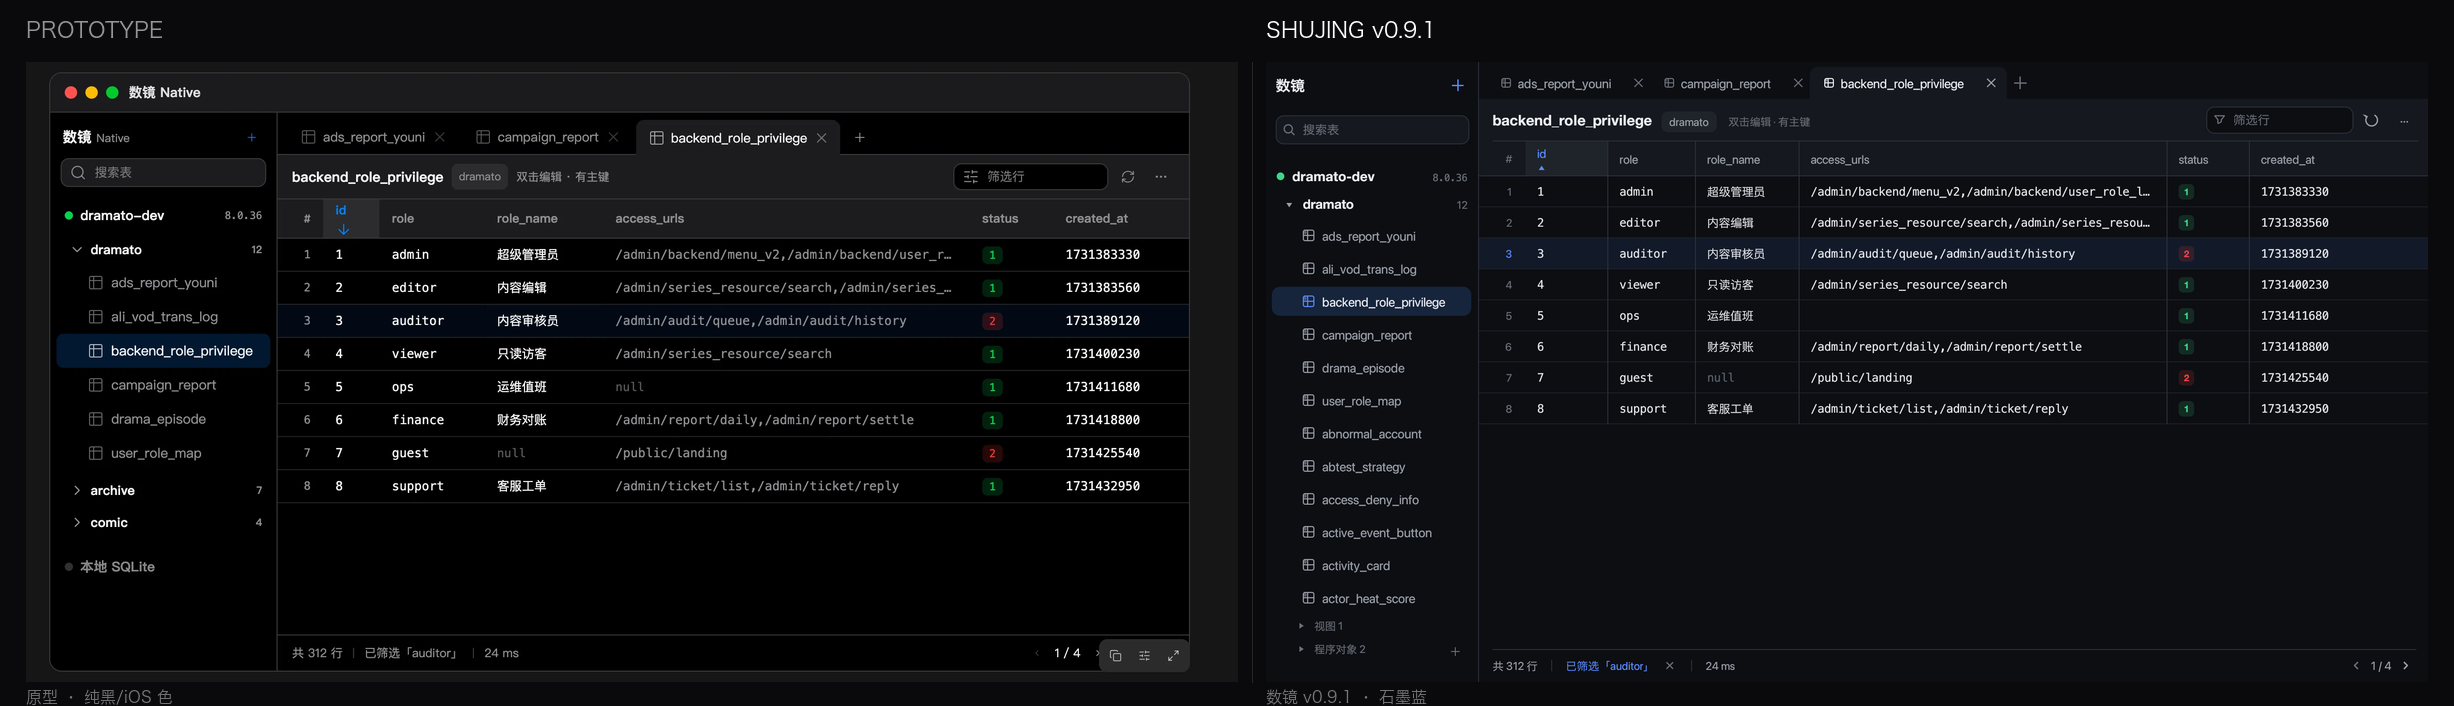
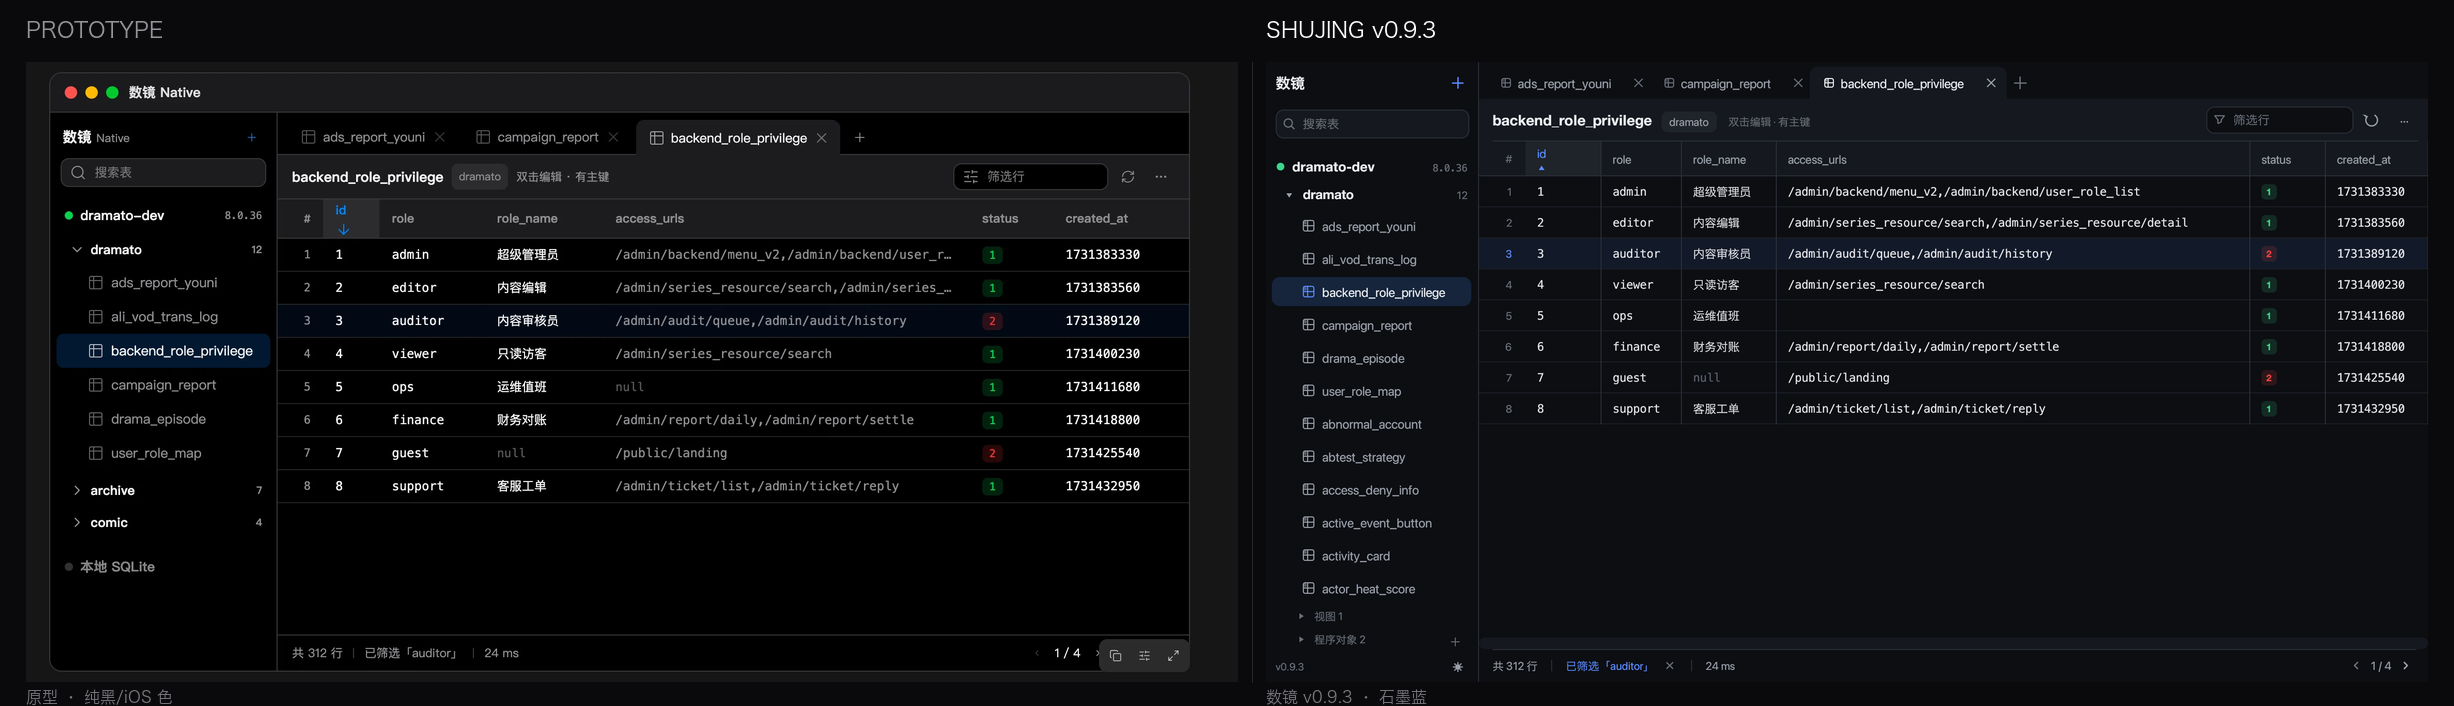
fix(ui): 修复应用图标“e”、侧栏横线/间距、标签栏跟滚与表格横向滚动条
- ViewportBuilder 设置数镜图标,替代 eframe 默认的 egui “e” 图标
- 侧栏移除头部/底栏 hairline,收紧头部、搜索、底栏间距
- 标签栏滚轮横滚只在指针位于标签栏时生效,避免滚表格时标签跟滚
- 数据表改用内容宽度列 + 末尾占位列,窄表可溢出
- 滚动条样式在外层 ui 设置(闭包内设置无效),横向条常驻、12pt、高可见度
- 列内容宽度上限 380→720、64→160 字符,长 URL 更完整
- 新增窄表横向滚动渲染测试、标签栏滚动隔离测试;25 项测试通过

diff --git a/crates/app/src/table_view.rs b/crates/app/src/table_view.rs
@@ -235,10 +235,13 @@ pub(crate) fn draw_tabs(app: &mut ShujingApp, ctx: &egui::Context) {
                 .auto_shrink([false, true])
                 .scroll_bar_visibility(egui::scroll_area::ScrollBarVisibility::AlwaysHidden)
                 .show(ui, |ui| {
-                    // 鼠标滚轮在标签栏上 = 横向滚动
-                    let wheel_y = ui.input(|i| i.smooth_scroll_delta.y);
-                    if wheel_y.abs() > 0.1 {
-                        ui.scroll_with_delta(egui::vec2(wheel_y, 0.0));
+                    // 鼠标滚轮在标签栏上 = 横向滚动;必须判断指针是否真的在标签栏内,
+                    // 否则滚表格时标签栏也会跟着横滚。
+                    if ui.rect_contains_pointer(ui.max_rect()) {
+                        let wheel_y = ui.input(|i| i.smooth_scroll_delta.y);
+                        if wheel_y.abs() > 0.1 {
+                            ui.scroll_with_delta(egui::vec2(wheel_y, 0.0));
+                        }
                     }
                     ui.horizontal(|ui| {
                         ui.spacing_mut().item_spacing.x = 2.0;
@@ -309,22 +312,28 @@ pub(crate) fn draw_tabs(app: &mut ShujingApp, ctx: &egui::Context) {
                         ui.add_space(4.0);
                         // 全部标签(溢出时可下拉直达)
                         if app.tabs.len() > 4 {
-                            ui.menu_button(RichText::new("▾ 全部标签").size(11.0).color(p.text2), |ui| {
-                                ui.set_min_width(220.0);
-                                for (i, t) in app.tabs.iter().enumerate() {
-                                    let sel = i == app.active_tab;
-                                    ui.horizontal(|ui| {
-                                        let lbl = ui.selectable_label(
-                                            sel,
-                                            RichText::new(&t.title).size(12.0).color(if sel { p.text } else { p.text2 }),
-                                        );
-                                        if lbl.clicked() {
-                                            activate = Some(i);
-                                            ui.close_menu();
-                                        }
-                                    });
-                                }
-                            });
+                            ui.menu_button(
+                                RichText::new("▾ 全部标签").size(11.0).color(p.text2),
+                                |ui| {
+                                    ui.set_min_width(220.0);
+                                    for (i, t) in app.tabs.iter().enumerate() {
+                                        let sel = i == app.active_tab;
+                                        ui.horizontal(|ui| {
+                                            let lbl =
+                                                ui.selectable_label(
+                                                    sel,
+                                                    RichText::new(&t.title)
+                                                        .size(12.0)
+                                                        .color(if sel { p.text } else { p.text2 }),
+                                                );
+                                            if lbl.clicked() {
+                                                activate = Some(i);
+                                                ui.close_menu();
+                                            }
+                                        });
+                                    }
+                                },
+                            );
                             ui.add_space(2.0);
                         }
                         let (rect, resp) = ui.allocate_exact_size(
@@ -1244,16 +1253,22 @@ pub(crate) fn draw_table_view(
                 let col_widths = fitted_widths(&vis_rows, &vis_cols, ui.available_width());
                 let desired_w =
                     if tab.show_rowno { 48.0 } else { 0.0 } + col_widths.iter().sum::<f32>();
+                // 注意:必须在外层 ui 上设置,ScrollArea 自己的滚动条不会读取闭包内 ui 的 spacing。
+                // 主题默认是 floating + dormant 全透明,不显式改就会“看不见横向滚动条”。
+                ui.spacing_mut().scroll.floating = false;
+                // 常驻、足够显眼:用户反馈“表格没有横向滚动条”,不能再用静止透明样式
+                ui.spacing_mut().scroll.dormant_handle_opacity = 0.9;
+                ui.spacing_mut().scroll.dormant_background_opacity = 0.15;
+                ui.spacing_mut().scroll.interact_handle_opacity = 1.0;
+                ui.spacing_mut().scroll.active_handle_opacity = 1.0;
+                ui.spacing_mut().scroll.bar_width = 12.0;
+                ui.spacing_mut().scroll.bar_inner_margin = 2.0;
                 let hout = egui::ScrollArea::horizontal()
                     .id_salt(format!("data-hscroll-{tab_id_s}"))
                     .auto_shrink([false, false])
-                    .scroll_bar_visibility(egui::scroll_area::ScrollBarVisibility::VisibleWhenNeeded)
+                    // 常驻横向滚动条:即便没有溢出也显示,用户能明确知道表格可横向滚动
+                    .scroll_bar_visibility(egui::scroll_area::ScrollBarVisibility::AlwaysVisible)
                     .show(ui, |ui| {
-                        // 数据网格用实体常驻滚动条:主题默认是悬浮+静止全透明,等于不可发现
-                        ui.spacing_mut().scroll.floating = false;
-                        ui.spacing_mut().scroll.dormant_handle_opacity = 0.4;
-                        ui.spacing_mut().scroll.bar_width = 10.0;
-                        ui.spacing_mut().scroll.bar_inner_margin = 3.0;
                         ui.set_min_width(ui.available_width().max(desired_w));
                         // 拖拽平移:按住网格区域左右拖 = 横向滚动(非编辑态)
                         if editing.is_none() {
@@ -1301,7 +1316,10 @@ pub(crate) fn draw_table_view(
                             actions.push(a);
                         }
                     });
-                    LAST_HSCROLL_X.store(hout.state.offset.x as i32, std::sync::atomic::Ordering::Relaxed);
+                LAST_HSCROLL_X.store(
+                    hout.state.offset.x as i32,
+                    std::sync::atomic::Ordering::Relaxed,
+                );
             }
             // 列头右键动作落地
             if let Some((c2, asc)) = col_set_sort {
@@ -1522,7 +1540,7 @@ pub(crate) fn suggested_widths(rows: &[Vec<Option<String>>], columns: &[String])
                 .filter_map(|r| r.get(i).and_then(|v| v.as_deref()))
                 .map(text_width)
                 .fold(0.0_f32, f32::max);
-            (head.max(data) + 26.0).clamp(72.0, 380.0)
+            (head.max(data) + 26.0).clamp(72.0, 720.0)
         })
         .collect()
 }
@@ -1541,7 +1559,7 @@ pub(crate) fn fitted_widths(
     let total = 48.0 + sum;
     if available > total + 1.0 {
         let scale = (available - 48.0) / sum;
-        base.iter().map(|w| (w * scale).min(620.0)).collect()
+        base.iter().map(|w| (w * scale).min(720.0)).collect()
     } else {
         base
     }
@@ -1549,7 +1567,7 @@ pub(crate) fn fitted_widths(
 
 fn text_width(s: &str) -> f32 {
     s.chars()
-        .take(64)
+        .take(160)
         .map(|c| {
             if c.is_ascii() && !c.is_ascii_control() {
                 7.2
@@ -1608,17 +1626,14 @@ fn draw_data_table(
     } else {
         builder
     };
+    // 所有真实列都按内容宽度布局,末尾再补一个 remainder 占位列:
+    // 内容窄时占位列把右侧铺满;内容宽时占位列收缩为 0,表格整体溢出并出现横向滚动条。
     for (i, _c) in columns.iter().enumerate() {
-        tb = tb.column(if i + 1 == columns.len() {
-            Column::remainder().clip(true)
-        } else {
-            Column::auto_with_initial_suggestion(col_widths[i])
-                .at_least(64.0)
-                .at_most(380.0)
-                .resizable(true)
-                .clip(true)
-        });
+        // 用 exact 固定内容宽度;auto 列会被 TableBuilder 压缩到视口内,永远不会溢出,
+        // 横向滚动条也就不会出现。末尾 remainder 列负责在窄表时把右侧铺满。
+        tb = tb.column(Column::exact(col_widths[i]).resizable(true).clip(true));
     }
+    tb = tb.column(Column::remainder().at_least(0.0));
     tb.header(theme::HEADER_H, |mut header| {
         if show_rowno {
             header.col(|ui| {
@@ -1767,6 +1782,12 @@ fn draw_data_table(
                 header_bottom_line(ui);
             });
         }
+        // 末尾占位列表头:保持表头背景和底边线连续
+        header.col(|ui| {
+            let rect = ui.max_rect();
+            ui.painter().rect_filled(rect, 0, p.panel);
+            header_bottom_line(ui);
+        });
     })
     .body(|body| {
         // 行悬停:由行号列的 y 波段判定,整行单元格共享
@@ -1887,6 +1908,19 @@ fn draw_data_table(
                     });
                 }
             }
+            // 末尾占位列:延续行背景/悬停/选中和行线
+            row.col(|ui| {
+                let rect = ui.max_rect();
+                if row_selected {
+                    ui.painter().rect_filled(rect, 0, p.selected_row);
+                } else if hovered {
+                    ui.painter().rect_filled(rect, 0, p.row_hover);
+                }
+                row_bottom_line(ui);
+                if ui.allocate_rect(rect, Sense::click()).clicked() {
+                    *new_selection = Some(Some((ri, 0)));
+                }
+            });
             let _ = is_editing_row;
         });
     });

diff --git a/crates/app/src/render_test.rs b/crates/app/src/render_test.rs
@@ -478,6 +478,19 @@ fn render_data_table() {
 }
 
 #[test]
+fn render_data_table_narrow() {
+    // 窄视口 + 长 access_urls:验证表格整体溢出时底部出现横向滚动条
+    let tab = role_tab();
+    let cell = std::cell::RefCell::new(Some(tab));
+    let conns: Vec<shujing_core::ConnInfo> = vec![];
+    render("data_table_narrow", 760.0, 700.0, true, move |ctx| {
+        let mut b = cell.borrow_mut();
+        let tab = b.as_mut().unwrap();
+        let _ = table_view::draw_table_view(ctx, "t1", tab, &conns);
+    });
+}
+
+#[test]
 fn render_row_detail() {
     let mut tab = role_tab();
     tab.detail = true;
@@ -918,6 +931,63 @@ fn session_save_restore_roundtrip() {
 }
 
 #[test]
+fn tabbar_wheel_ignored_when_pointer_over_table() {
+    // 标签栏的“滚轮横滚”只能在指针位于标签栏时生效;
+    // 否则滚表格时标签栏也会跟着横移(用户反馈的问题)。
+    let mut app = full_app("role");
+    for i in 0..8 {
+        app.tabs.push(stub_tab(
+            &format!("辅助表 {i}"),
+            &format!("extra_table_{i}"),
+        ));
+    }
+    let cell = std::cell::RefCell::new(app);
+    let setup_done = std::cell::Cell::new(false);
+    let mut harness = egui_kittest::Harness::builder()
+        .with_size(egui::vec2(1000.0, 700.0))
+        .with_pixels_per_point(2.0)
+        .build_state(
+            move |ctx, app: &mut std::cell::RefCell<ShujingApp>| {
+                if !setup_done.get() {
+                    setup_done.set(true);
+                    ShujingApp::apply_fonts(ctx);
+                    crate::theme::set_dark(true);
+                    crate::theme::apply(ctx);
+                    return;
+                }
+                let mut b = app.borrow_mut();
+                draw_app(&mut b, ctx);
+            },
+            cell,
+        );
+    harness.run_steps(6);
+    let before = harness.render().expect("render before");
+    let width = before.width() as usize;
+    let top_len = (crate::theme::TABBAR_H * 2.0) as usize * width * 4;
+    let before_top = before.as_raw()[..top_len].to_vec();
+
+    // 指针放到表格内容上,注入纵向滚轮(标签栏不应响应)
+    harness
+        .input_mut()
+        .events
+        .push(egui::Event::PointerMoved(egui::pos2(600.0, 380.0)));
+    harness.step();
+    harness.input_mut().events.push(egui::Event::MouseWheel {
+        unit: egui::MouseWheelUnit::Point,
+        delta: egui::vec2(0.0, -400.0),
+        modifiers: Default::default(),
+    });
+    harness.step();
+    harness.step();
+    let after = harness.render().expect("render after");
+    assert_eq!(
+        before_top,
+        &after.as_raw()[..top_len],
+        "滚动表格时标签栏不应跟着横移"
+    );
+}
+
+#[test]
 fn data_grid_hscroll_works() {
     // 宽表:每个格塞长内容,总宽远超视口
     let mut app = full_app("role");
@@ -1036,14 +1106,11 @@ fn data_grid_hscroll_works() {
         .events
         .push(egui::Event::PointerMoved(egui::pos2(500.0, 350.0)));
     harness.step();
-    harness
-        .input_mut()
-        .events
-        .push(egui::Event::MouseWheel {
-            unit: egui::MouseWheelUnit::Point,
-            delta: egui::vec2(-300.0, 90.0),
-            modifiers: Default::default(),
-        });
+    harness.input_mut().events.push(egui::Event::MouseWheel {
+        unit: egui::MouseWheelUnit::Point,
+        delta: egui::vec2(-300.0, 90.0),
+        modifiers: Default::default(),
+    });
     harness.step();
     harness.step();
     let x_after_combined = table_view::LAST_HSCROLL_X.load(std::sync::atomic::Ordering::Relaxed);

diff --git a/crates/app/src/sidebar.rs b/crates/app/src/sidebar.rs
@@ -98,15 +98,14 @@ impl ShujingApp {
                 });
             },
         );
-        theme::hairline_bottom(ui);
-        ui.add_space(8.0);
+        ui.add_space(5.0);
 
         // 表搜索(原型常驻)
         theme::search_box(ui, "side-table-search", &mut self.table_filter, "搜索表", w);
-        ui.add_space(14.0);
+        ui.add_space(10.0);
 
         // 底部栏(版本+主题)固定高度,滚动区让出空间
-        let bottom_bar_h = 34.0;
+        let bottom_bar_h = 30.0;
         egui::ScrollArea::vertical()
             .id_salt("sidebar-scroll")
             .auto_shrink([false, false])
@@ -130,9 +129,7 @@ impl ShujingApp {
             });
 
         // 底部栏:版本号 + 黑白主题切换
-        ui.add_space(6.0);
-        theme::hairline_top(ui);
-        ui.add_space(6.0);
+        ui.add_space(3.0);
         ui.horizontal(|ui| {
             ui.label(
                 RichText::new(format!("v{}", env!("CARGO_PKG_VERSION")))
@@ -228,11 +225,7 @@ impl ShujingApp {
             egui::vec2(name_galley.size().x + 12.0, rect.height()),
         );
         let name_resp = ui.allocate_rect(name_rect, Sense::click());
-        let tip = if online {
-            "已连接"
-        } else {
-            "点击连接"
-        };
+        let tip = if online { "已连接" } else { "点击连接" };
         name_resp.clone().on_hover_text(tip);
         // 只有离线时点击才连接;在线时点击不做任何事(防止误触断开)
         if name_resp.clicked() && !online {

diff --git a/crates/app/src/main.rs b/crates/app/src/main.rs
@@ -26,11 +26,16 @@ fn main() {
         ensure_installed_from_dmg();
         force_appearance(true);
     }
+    // 不设置时 eframe 会使用默认的 egui “e” 图标(就是 Dock 里看到的那个)
+    let app_icon =
+        eframe::icon_data::from_png_bytes(include_bytes!("../../../assets/AppIcon-128.png"))
+            .expect("加载应用图标失败");
     let native = eframe::NativeOptions {
         viewport: egui::ViewportBuilder::default()
             .with_inner_size([1360.0, 860.0])
             .with_min_inner_size([1024.0, 640.0])
-            .with_title("数镜"),
+            .with_title("数镜")
+            .with_icon(std::sync::Arc::new(app_icon)),
         ..Default::default()
     };
     eframe::run_native(

diff --git a/README.md b/README.md
@@ -33,8 +33,9 @@ v0.4.0 起界面按高保真原型重做,统一设计令牌(深浅双主题):
 - M1 ✓ 连接管理、库/表树、虚拟化数据网格 + 分页 + 排序、CSV 导入/导出、编辑回写
 - M2 ✓ UI 全面对齐原型(设计令牌 / 深浅主题 / 侧栏 / 标签 / 工具条 / 状态栏 / 弹窗)
 - v0.5–v0.9 ✓ ER 图、表设计器、Redis 面板、筛选栏、SQL 导入/导出、外观强调色等扩展页(沿用同一设计令牌)
+- v0.9.3 ✓ 数镜应用图标、侧栏分隔/间距、标签栏滚动隔离、数据表常驻横向滚动条
 
 ## 验收
 
 - `cargo test -p shujing-app` 覆盖离屏渲染 + 关键交互(翻页/拖拽/关闭标签/会话恢复等)
-- 当前 v0.9.1 的界面截图与原型对比见 `docs/ui/compare_dark.png`、`compare_light.png`
+- 当前 v0.9.3 的界面截图与原型对比见 `docs/ui/compare_dark.png`、`compare_light.png`
